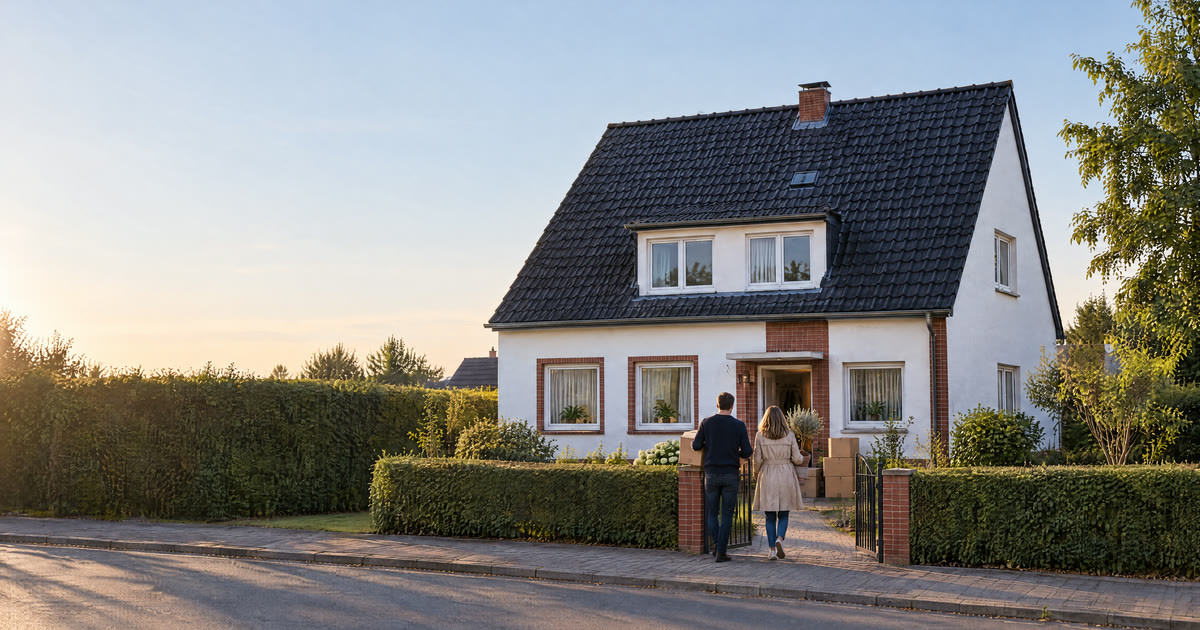
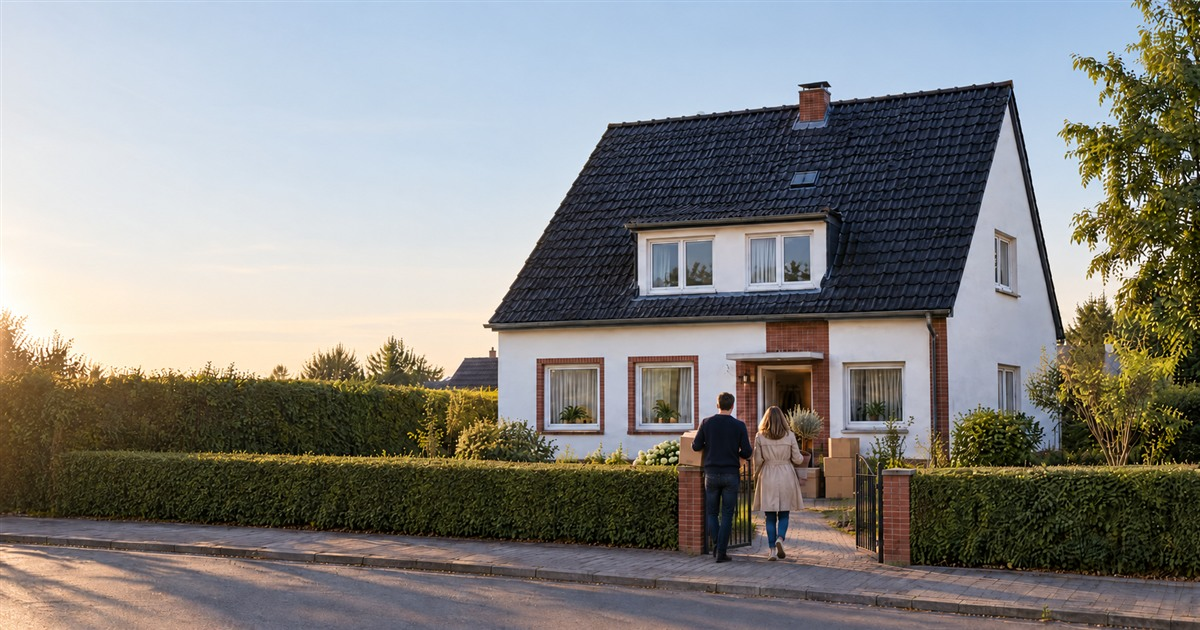
Close hedge gap in social sharing preview

diff --git a/hauskauf-renovierung-umzug/index.html b/hauskauf-renovierung-umzug/index.html
@@ -16,7 +16,7 @@
 <meta property="og:url" content="https://heimstart.de/hauskauf-renovierung-umzug/">
 <meta property="og:title" content="Hauskauf, Renovierung und Umzug planen mit Heimstart">
 <meta property="og:description" content="Finanzierung, Aufgaben, Einkauf und Team: die Funktionen der App für Android und iPhone im Überblick.">
-<meta property="og:image" content="https://heimstart.de/assets/media/og-heimstart.jpg">
+<meta property="og:image" content="https://heimstart.de/assets/media/og-heimstart-20261025.jpg">
 <meta name="twitter:card" content="summary_large_image">
 <script type="application/ld+json">
 {"@context":"https://schema.org","@graph":[{"@type":"WebPage","@id":"https://heimstart.de/hauskauf-renovierung-umzug/#webpage","url":"https://heimstart.de/hauskauf-renovierung-umzug/","name":"App für Hauskauf, Renovierung und Umzug | Heimstart","description":"Mit Heimstart Finanzierung, Aufgaben, Material und Helfer organisieren.","inLanguage":"de-DE","isPartOf":{"@id":"https://heimstart.de/#website"},"about":{"@id":"https://heimstart.de/#app"},"breadcrumb":{"@id":"https://heimstart.de/hauskauf-renovierung-umzug/#breadcrumb"}},{"@type":"BreadcrumbList","@id":"https://heimstart.de/hauskauf-renovierung-umzug/#breadcrumb","itemListElement":[{"@type":"ListItem","position":1,"name":"Heimstart","item":"https://heimstart.de/"},{"@type":"ListItem","position":2,"name":"Hauskauf, Renovierung und Umzug","item":"https://heimstart.de/hauskauf-renovierung-umzug/"}]}]}

diff --git a/index.html b/index.html
@@ -16,7 +16,7 @@
 <meta property="og:url" content="https://heimstart.de/">
 <meta property="og:title" content="Heimstart: vom Inserat bis zum Einzug">
 <meta property="og:description" content="Finanzierung, Bankangebote, Zeitplan, Einkauf und Team in einer App. Mit ehrlichem Rechner: Reicht unser Geld?">
-<meta property="og:image" content="https://heimstart.de/assets/media/og-heimstart.jpg">
+<meta property="og:image" content="https://heimstart.de/assets/media/og-heimstart-20261025.jpg">
 <meta name="twitter:card" content="summary_large_image">
 <!-- Chrome-Testphase WebMCP für https://heimstart.de, gültig bis 30.03.2027; Erneuern unter developer.chrome.com/origintrials (Heimstart-Google-Konto). -->
[1 lines of base64/hex data omitted]
@@ -61,7 +61,7 @@
       "operatingSystem": "Android, iOS",
       "applicationCategory": "FinanceApplication",
       "inLanguage": "de",
-      "image": "https://heimstart.de/assets/media/og-heimstart.jpg",
+      "image": "https://heimstart.de/assets/media/og-heimstart-20261025.jpg",
       "screenshot": [
         "https://heimstart.de/assets/app/finanzierung.webp",
         "https://heimstart.de/assets/app/angebot.webp",
